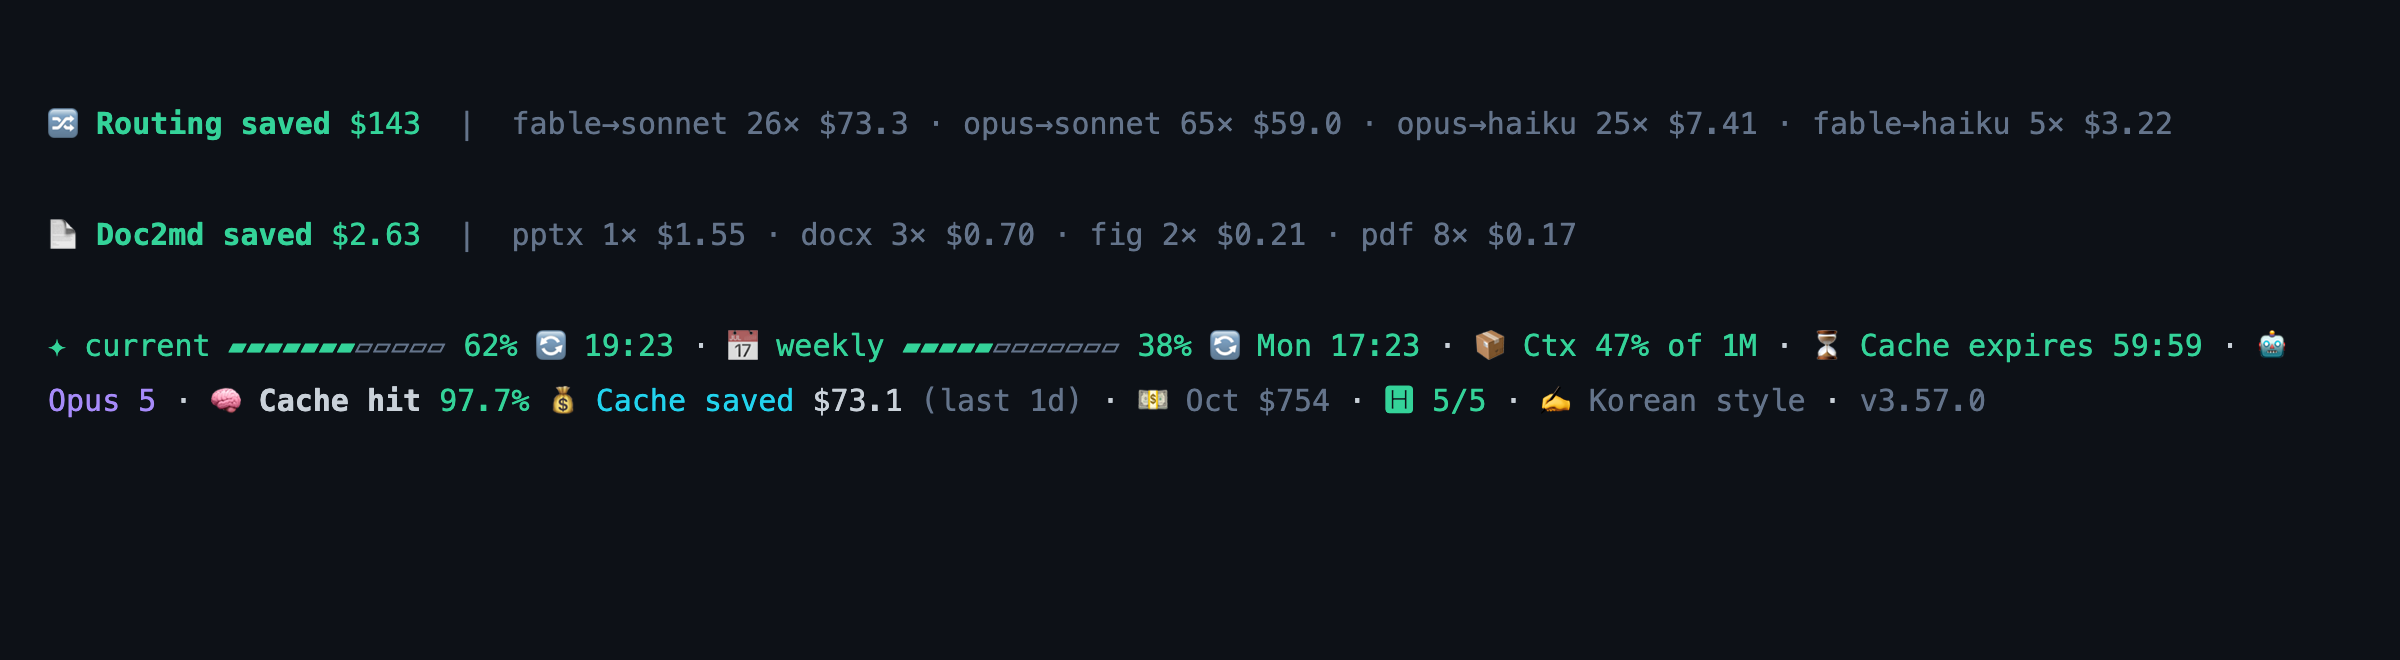
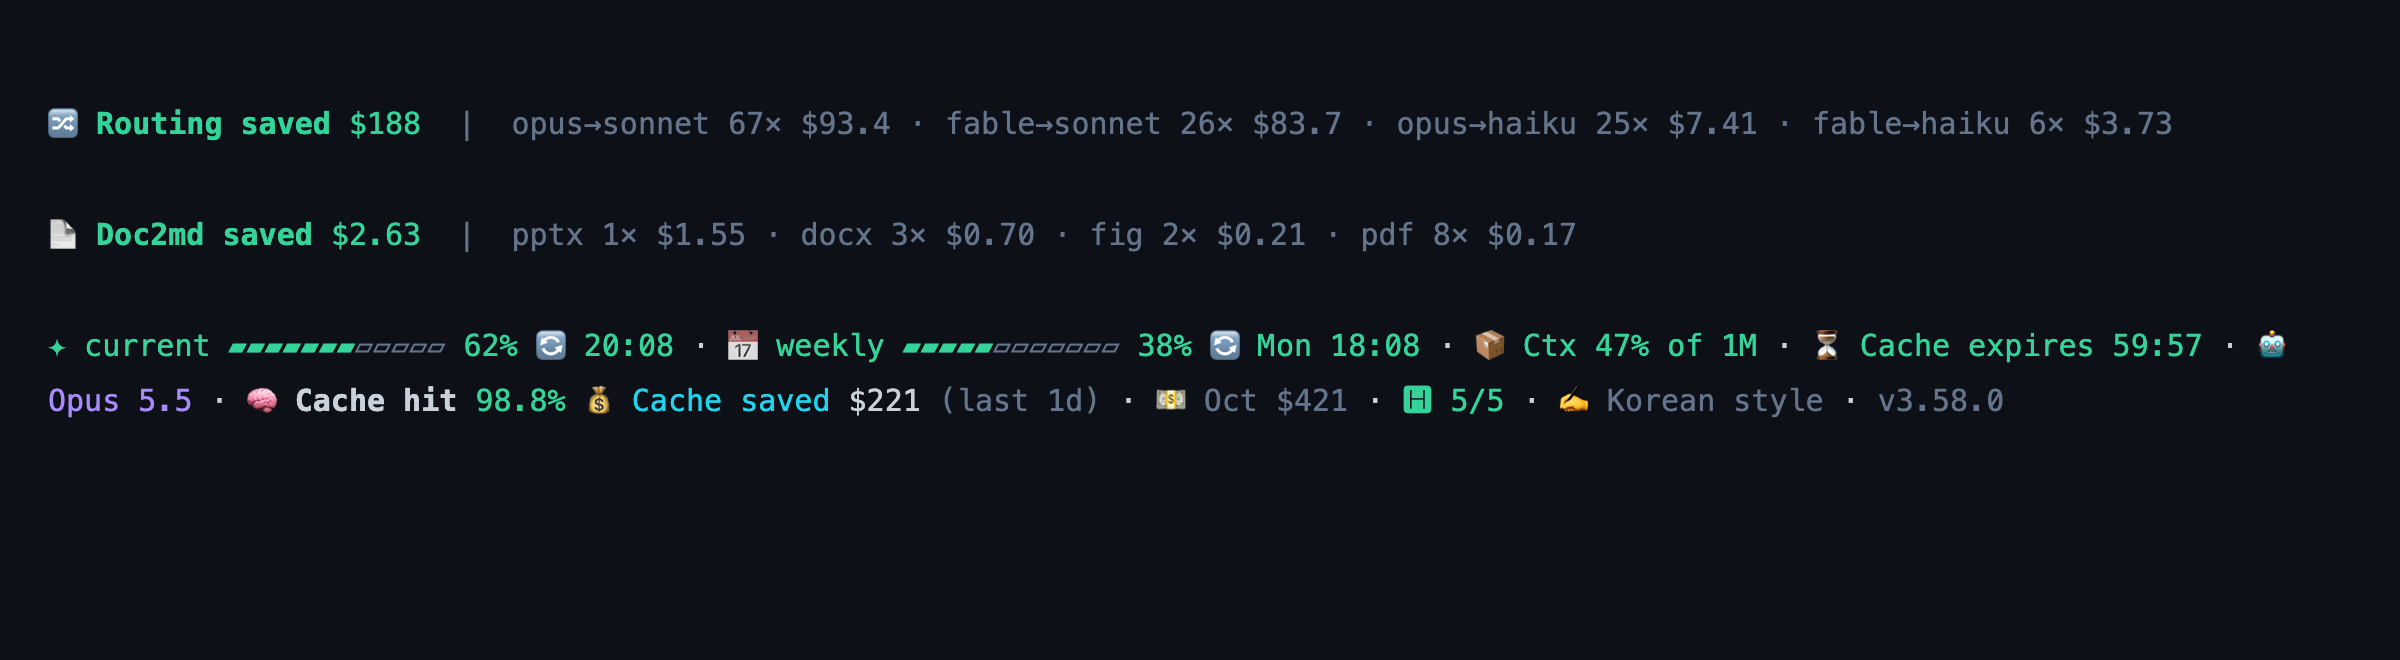
docs: refresh ledger figures at corrected prices and drop the spike chip from the hero capture

diff --git a/site/index.html b/site/index.html
@@ -584,7 +584,7 @@
   <div class="wrap nwrap">
     <div class="num"><b>59.1%</b><span data-k="nb.1">benchmark accuracy · beats every single model in the pool</span></div>
     <div class="num"><b>95.9%</b><span data-k="nb.2">fewer tokens per document read through doc2md</span></div>
-    <div class="num"><b>$143.22</b><span data-k="nb.3">Claude routing estimate · 122 recorded runs</span></div>
+    <div class="num"><b>$188.27</b><span data-k="nb.3">Claude routing estimate · 124 recorded runs</span></div>
     <div class="num"><b>2</b><span data-k="nb.4">coding agents · Claude Code and Codex</span></div>
   </div>
 </section>
@@ -1072,7 +1072,7 @@ const KO = {
   'fl.b2s':'ratchet-model.md · 내 로그에서 생성',
   'nb.1':'벤치마크 정답률 · 어떤 단일 모델보다 높음',
   'nb.2':'doc2md를 거친 문서 읽기의 토큰 절감률',
-  'nb.3':'Claude 위임 예상 차액 · 실행 122건 기록',
+  'nb.3':'Claude 위임 예상 차액 · 실행 124건 기록',
   'nb.4':'코딩 에이전트 · Claude Code와 Codex',
   'fq.h2':'자주 묻는 질문',
   'fq.q1':'claude-token-saver와 같은 도구인가요?',

diff --git a/README.md b/README.md
@@ -60,7 +60,7 @@ npm i -g sprag-cli   # Claude Code, plus Codex when it is installed
    needs attention:
 
 ```
-🔀 Routing saved $143  |  fable→sonnet 26× $73.3 · opus→sonnet 66× $59.3 · opus→haiku 25× $7.41 · fable→haiku 5× $3.22
+🔀 Routing saved $188  |  opus→sonnet 67× $93.4 · fable→sonnet 26× $83.7 · opus→haiku 25× $7.41 · fable→haiku 6× $3.73
 🧠 Cache hit 98.8% · ⏳ Cache expires 59:46 · 🅷 5/5 · 📦 Ctx 47% of 1M
 ```
 
@@ -95,7 +95,7 @@ holding.
 | Public benchmark accuracy | **59.1%** vs 57.9% best single model | `▰▰▰▰▰▰▰▰▰▰▰▰` | [benchmark](https://github.com/rootstudioyaml/sprag/blob/main/docs/BENCHMARK.md) |
 | Cost for the same queries | **$268** vs gpt-5 $388, gemini-2.5-pro $734 | `▰▰▰▰▰▱▱▱▱▱▱▱` | [benchmark](https://github.com/rootstudioyaml/sprag/blob/main/docs/BENCHMARK.md) |
 | Tokens for the same documents | **−95.9%**, 2,011,178 → 82,209 over 12 files | `▰▱▱▱▱▱▱▱▱▱▱▱` | [doc2md](https://github.com/rootstudioyaml/sprag/blob/main/docs/DOC2MD.md) |
-| Delegation savings, from the ledger | **$143.22** over 122 delegated runs | `▰▰▰▰▰▰▰▰▰▰▰▱` | `sprag route-scan savings` |
+| Delegation savings, from the ledger | **$188.27** over 124 delegated runs | `▰▰▰▰▰▰▰▰▰▰▰▱` | `sprag route-scan savings` |
 | Cheap tier on the same prompts | **24% of the cost**, one answer worse out of eight | `▰▰▰▱▱▱▱▱▱▱▱▱` | [A/B run](#the-cheap-tier-on-the-same-prompts) |
 
 The first two rows answer the objection that comes up first: that moving work to
@@ -118,14 +118,15 @@ Model names are the ones each run actually used.
 ### Current, on one machine, last 30 days
 
 ```
-🔀 Routing saved $143.22 total        (last 7d $7.54 · last 30d $109.21)
+🔀 Routing saved $188.27 total        (last 7d $13.31 · last 30d $150.64)
 
-   fable-5 → sonnet-5      24 runs    $71.18   ▰▰▰▰▰▰▰▰▰▰▰▰
-   opus-5  → sonnet-5      54 runs    $46.58   ▰▰▰▰▰▰▰▰▱▱▱▱
-   opus-5  → sonnet-5.5    12 runs    $12.70   ▰▰▱▱▱▱▱▱▱▱▱▱
+   fable-5 → sonnet-5      24 runs    $81.19   ▰▰▰▰▰▰▰▰▰▰▰▰
+   opus-5  → sonnet-5      54 runs    $68.85   ▰▰▰▰▰▰▰▰▰▰▱▱
+   opus-5  → sonnet-5.5    13 runs    $24.58   ▰▰▰▰▱▱▱▱▱▱▱▱
    opus-5  → haiku-4.5     25 runs     $7.41   ▰▱▱▱▱▱▱▱▱▱▱▱
    fable-5 → haiku-4.5      5 runs     $3.22   ▰▱▱▱▱▱▱▱▱▱▱▱
-   fable-5 → sonnet-5.5     2 runs     $2.13   ▰▱▱▱▱▱▱▱▱▱▱▱
+   fable-5 → sonnet-5.5     2 runs     $2.51   ▰▱▱▱▱▱▱▱▱▱▱▱
+   fable-5 → haiku-5.5      1 run      $0.51   ▰▱▱▱▱▱▱▱▱▱▱▱
 ```
 
 | Also measured | Over 30 days | |
@@ -160,7 +161,7 @@ arrives as fewer round-trips rather than as cheaper ones.
 ## The statusline in one line
 
 ```
-🔀 Routing saved $143  |  fable→sonnet 26× $73.3 · opus→sonnet 66× $59.3 · opus→haiku 25× $7.41 · fable→haiku 5× $3.22
+🔀 Routing saved $188  |  opus→sonnet 67× $93.4 · fable→sonnet 26× $83.7 · opus→haiku 25× $7.41 · fable→haiku 6× $3.73
 🚨 5H ▰▰▰▰▰▰▰▰▰▰▰▱ 94% 🔄 12:36 · 🅷 5/5 · 🤖 Opus 5.5 · 🧠 Cache hit 98.8% · ⏳ Cache expires 59:46 · 📅 weekly ▰▰▰▰▰▱▱▱▱▱▱▱ 38% · 💵 Sep $42 · 📦 Ctx 47% of 1M
 ```
 
@@ -199,7 +200,7 @@ surfaces, and never send design or diagnosis.
 | Measured | Value | Sample | Window |
 |---|---|---|---|
 | Documents converted | 2,011,178 → 82,209 tokens | 12 files (xlsx, pptx, pdf) | to 2026-09-18 |
-| Delegated runs | $143.22 saved, $1.17 per run | 122 runs | to 2026-10-09 |
+| Delegated runs | $188.27 saved, $1.52 per run | 124 runs | to 2026-10-09 |
 | Ratchet rules accumulated | 37 (30 global, 7 per-project) | 4 repositories | 2026-05-08 to 09-16 |
 
 The two counts grow differently. Ratchet rules come from mistakes a person made,
